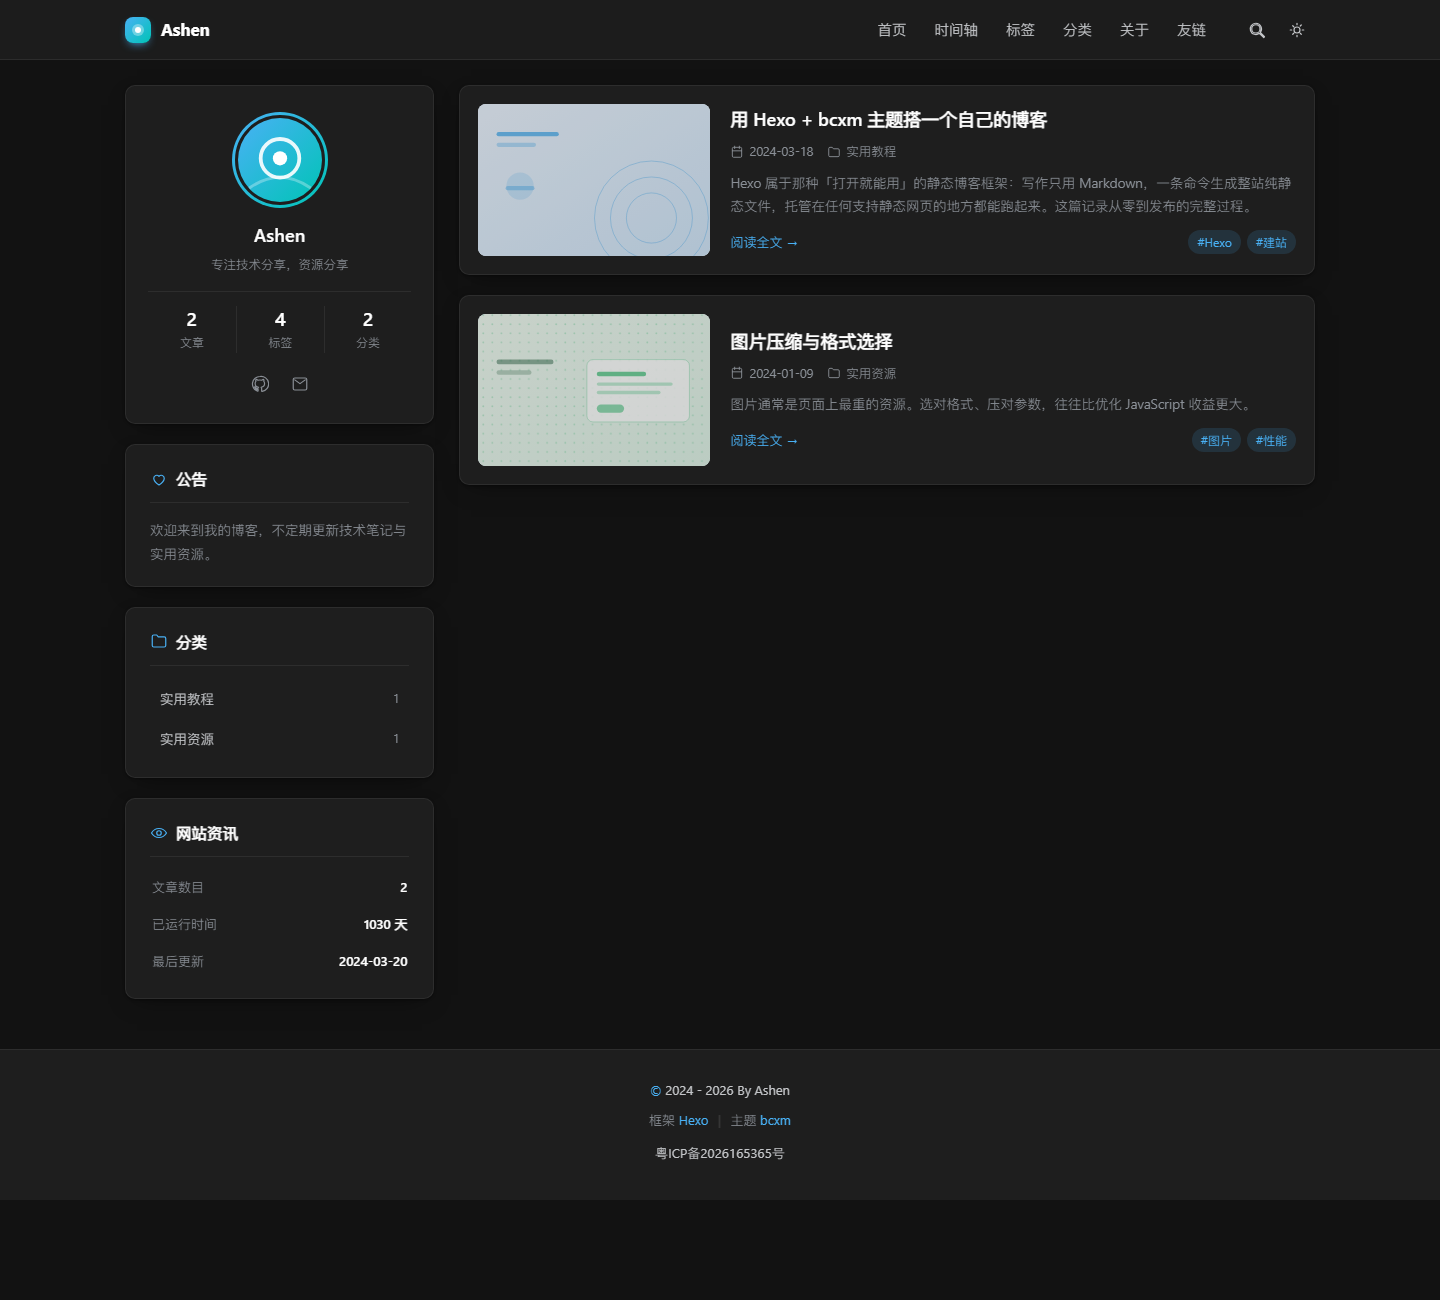
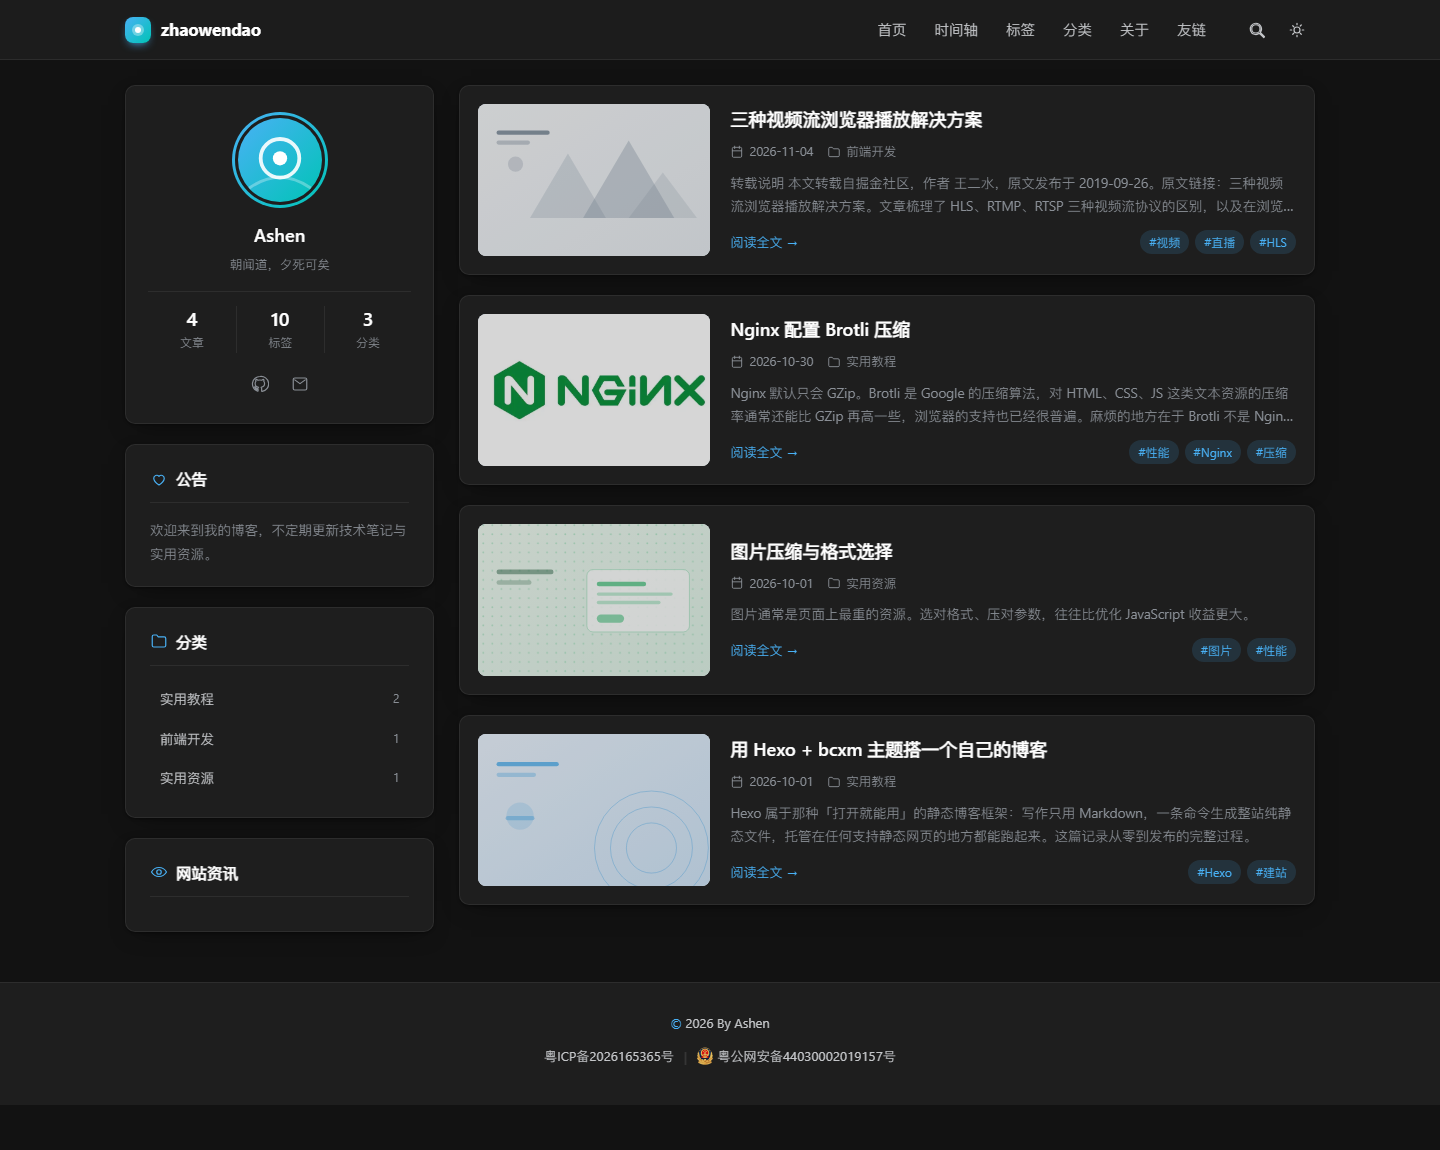
feat: 页脚新增 ICP 与公安联网备案信息
- 页脚展示工信部 ICP 备案号并链接至 beian.miit.gov.cn
- 新增公安联网备案号与官方备案图标，链接至全国互联网安全管理服务平台
- 备案号出现于全部页面页脚，可在 _config.bcxm.yml 中开关
- 版权行起止年份相同时不再重复显示
- 站点 url 更新为 https://zhaowendao.me

diff --git a/themes/bcxm/source/css/style.css b/themes/bcxm/source/css/style.css
@@ -1050,6 +1050,24 @@ button {
   border-bottom-color: currentColor;
 }
 
+/* 公安备案：图标与备案号同行居中，图标保持原始像素比例 */
+.site-footer .beian-police {
+  display: inline-flex;
+  align-items: center;
+  gap: 4px;
+  vertical-align: middle;
+}
+
+.site-footer .beian-icon {
+  height: 18px;
+  width: auto;
+  flex: none;
+  object-fit: contain;
+}
+
+/* 与 inline-flex 的公安备案链接对齐分隔符 */
+.site-footer .footer-beian .footer-sep { vertical-align: middle; }
+
 /* ---------- 12. 右下角按钮 ---------- */
 .rightside {
   position: fixed;

diff --git a/README.md b/README.md
@@ -61,19 +61,30 @@ blog/
 2. **主题信息** —— `_config.bcxm.yml` 里的 `avatar`、`description`、`social`、`menu`、`announcement`、`footer`（含 `footer.icp` 备案号）。
 3. **内容** —— 把 `source/_posts/` 下的示例文章换成自己的，`source/img/covers/` 换成自己的封面图。
 
-## ICP 备案
+## 备案信息
 
-在 `_config.bcxm.yml` 里填备案号即可，页脚会自动显示并链接到工信部备案查询系统：
+`_config.bcxm.yml` 的 `footer` 里填写备案号，页脚会自动显示并生成官方查询链接，两个备案可单独开关：
 
 ```yaml
 footer:
-  icp: '粤ICP备2026165365号'        # 留空则不显示
+  # 工信部 ICP 备案：链接到 beian.miit.gov.cn
+  icp: '粤ICP备2026165365号'            # 留空则不显示
   icp_link: https://beian.miit.gov.cn/
+
+  # 公安联网备案：编号 + 官方下发的备案图标
+  police: '粤公网安备44030002019157号'   # 留空则不显示
+  police_code: '44030002019157'         # 留空则从 police 里自动提取数字
+  police_icon: /img/beian.png           # 图标放在 source/img/ 下；留空则不显示图标
 ```
 
-工信部要求：备案号需在网站底部（通常是首页底部）清晰可见，并能点击跳转到 `beian.miit.gov.cn` 查询。本项目已按此实现，备案号出现在每个页面的页脚。
+- **ICP 备案**：工信部要求备案号在网站底部清晰可见，并能点击跳转到 `beian.miit.gov.cn` 查询。
+- **公安联网备案**：要求备案号与官方配发的「备案图标」一同展示，点击跳转到全国互联网安全管理服务平台（`beian.mps.gov.cn`）的该网站查询页。链接由 `police_code` 自动拼成 `…/query/webSearch?code=<编号>`。
 
-> 公安联网备案另有单独的图标（备案图标）要求，需要时把图标放到 `source/img/`，再用 `footer.custom_text` 插入即可。
+两个备案号渲染在同一行、以 `|` 分隔，并出现在**每个页面**的页脚：
+
+![页脚备案信息](docs/screenshots/footer-beian.png)
+
+> `source/img/beian.png` 是公安部平台官方图标文件（`https://beian.mps.gov.cn/web/assets/logo01.6189a29f.png`，62×67），页脚按 18px 高度等比显示。要更新时下载同名文件覆盖即可，代码不用改。
 
 ## 导航写法
 
